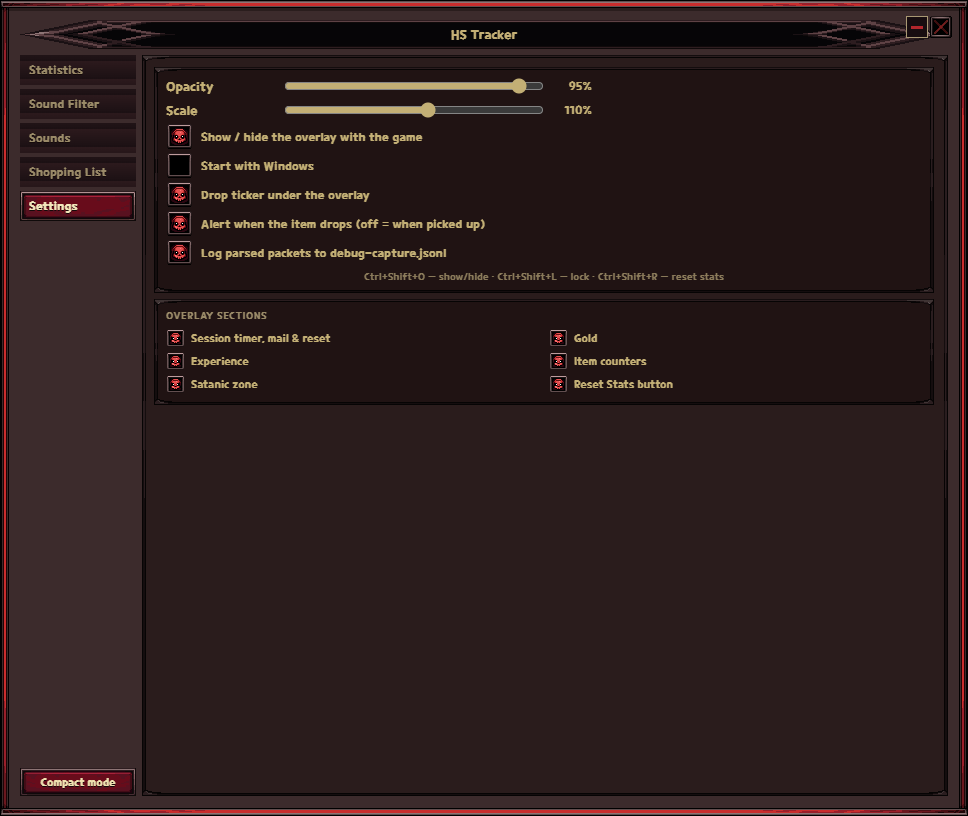
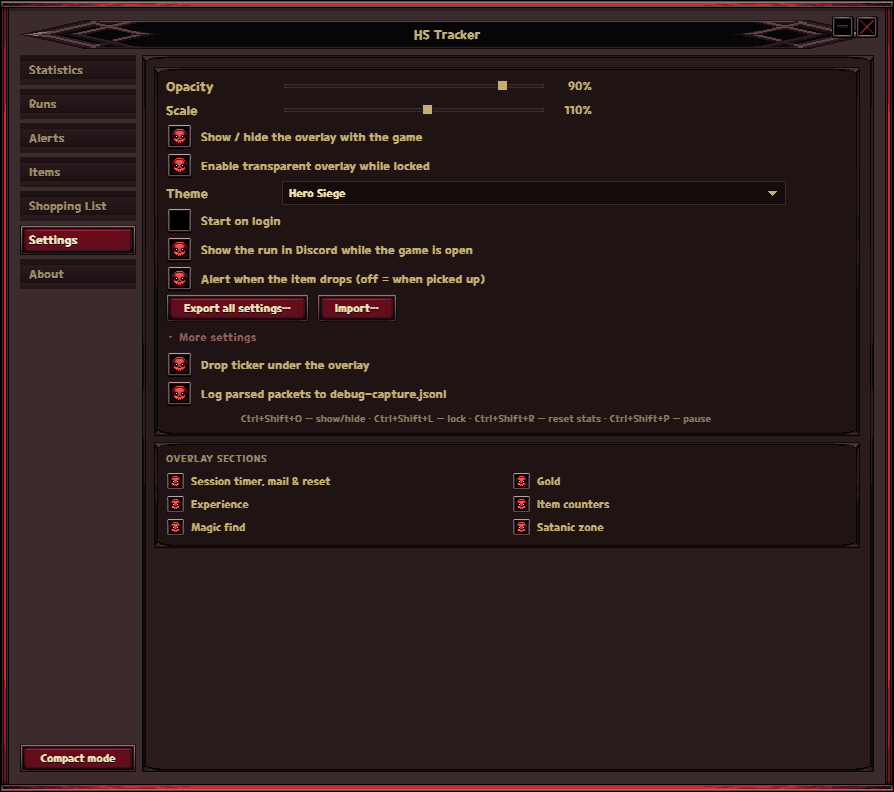
0.9.93
The README says how soon it works when a season starts, because that is the
question the work behind this release answers: an hour or so, and none of it
spent waiting for someone else to datamine the patch.

New screenshots, taken from the running app rather than a headless render, so
the pages show what they hold instead of an empty frame. The overlay is shown
both locked and not — the difference between a panel that lets every click
through to the game and one that can take a click away from it is worth seeing
before you install.

Changed region(s): [[0.0, 0.0, 0.9966, 1.0], [0.5738, 0.3939, 0.6946, 0.4848]]

diff --git a/README.md b/README.md
@@ -11,15 +11,11 @@
   <a href="../../releases"><b>➡ Download for Windows &amp; Linux ⬅</b></a>
 </p>
 
-> [!WARNING]
-> **Still in development.** It is usable and in daily use, but it is not
-> finished: expect bugs, expect settings to move between versions, and expect
-> the occasional drop to be counted oddly after a game patch. Nothing it does
-> can harm your account or your saves — it only reads — but do not treat its
-> numbers as authoritative until a version says it is out of beta.
+> [!NOTE]
+> **How soon does it work when a new season starts?**
 >
-> Found something wrong? [Open an issue](../../issues) with what you were
-> doing and, if you can, the log from `%LOCALAPPDATA%\HS Tracker\`.
+> About an hour, an hour and a half. That is how long it takes to rebuild the
+> item tables and cut a release.
 
 ![The overlay over a running game](screenshots/overlay.png)
 
@@ -44,34 +40,37 @@ injects anything, and sends nothing anywhere — everything stays on your machin
 The one exception is the **About** section's update check, which asks GitHub for
 the newest release and only when you press the button.
 
-## Where it stands
-
-Roughly **80% of the way to 1.0**. What is left is mostly the last stretch of one
-job: making the app's knowledge of the game come from the game.
-
-| | |
-| --- | --- |
-| ✅ **Capture** | Reads the traffic without touching the game. Survives adapters that do segmentation offload, which used to hide every message longer than one frame. |
-| ✅ **Statistics & runs** | Rates, drops by rarity and grade, magic find, bosses, chests, the Satanic Zone, and every finished session kept with a shareable card. |
-| ✅ **Alerts** | Per-rarity sounds, minimum grade, custom filters with their own lists and sounds, and the loot-pillar announcement — on one page. |
-| ✅ **Overlay** | Click-through when locked, its own placement, hotkeys, tray, compact and dashboard faces. |
-| ✅ **Linux** | Builds and runs; on Wayland it runs as the dashboard, and says so instead of pretending the overlay works. |
-| ✅ **Backup** | Every setting, filter, list and sound in one file. |
-| 🚧 **Item data from the game** | Drop rates, names, rarity, grade and drop zones are now read out of the game's own files instead of a datamining site. Drop rates agree with the game's journal exactly; rarity matches the old source on 1552 items of 1577, grades on every named item. |
-| 🚧 **The last field** | One piece of item identity still comes from that outside source. Until it is derived locally, an item added by a game patch is known by rarity and grade but cannot yet be named from a packet. |
-| 🔜 **Polish** | Layout on small windows, Linux packaging, and the long tail of things that only show up in someone else's session. |
-
-Nothing here is a promise of a date. It is where the work actually is.
-
 ## Showcase
+
+The app is a small set of pages behind the overlay: what happened this session,
+what to shout about when it drops, what you are hunting, and the switches.
 
 | Statistics | Alerts |
 | --- | --- |
+| Rates per hour, drops by rarity and grade, magic find, bosses and chests, and the Satanic Zone with its countdown. | One page in two columns: each rarity's sound and volume on the left with the announcement under it, the custom filter and its lists on the right. |
 | ![Statistics](screenshots/statistics.png) | ![Alerts](screenshots/sound-filter.png) |
 
-| Sounds — now part of Alerts | Shopping List |
+| Items | Shopping List |
 | --- | --- |
-| ![Sounds](screenshots/sounds.png) | ![Shopping list](screenshots/shopping-list.png) |
+| Every named item, what it takes to get one, and where it is worth farming. Cards or a table, whichever reads better. | The items you are actually after, so a drop you have been waiting weeks for is not one line among forty. |
+| ![Items](screenshots/items.png) | ![Shopping list](screenshots/shopping-list.png) |
+
+### The overlay, locked and not
+
+Locked, it is click-through: the mouse goes to the game and only the numbers are
+drawn. Unlocked, it grows a frame, a grip to drag it by and the buttons that
+reset or hide it — and that is the one state in which it can take a click the
+game was meant to have.
+
+| Locked | Unlocked |
+| --- | --- |
+| ![Overlay, locked](screenshots/overlay-locked.png) | ![Overlay, unlocked](screenshots/overlay-unlocked.png) |
+
+Settings is the last page, and the least interesting: the four or five things
+people change, with the rest a click away under **More settings**.
+
+![Settings](screenshots/settings.png)
+
 
 ## Install
 

diff --git a/CHANGELOG.md b/CHANGELOG.md
@@ -1,5 +1,64 @@
 # Changelog
 
+## 0.9.93 — 2026-08-18
+
+### Changed
+
+- **The item tables come out of the game now.** Drop rates, names, rarities,
+  grades and the identity triple are read from `Hero_Siege.exe` and
+  `translationsItem.csv` instead of a datamining site, so a season can be
+  tracked the day it arrives rather than the day someone else datamines it.
+  `npm run items` does the whole job. Measured against the old source: every
+  rate it can read agrees, rarity on 1552 items of 1577, grades on all 955
+  named items, and the identity triple on 1861 of 1862 — the one disagreement
+  is the old source's mistake. It also brings 12 items that source never had.
+- The **Items** page has a card view beside the table and remembers which you
+  used. A card gives the name, the kind and grade, both drop chances and where
+  the item is tied, in words rather than as a fifth column.
+- Machine paths moved out of the build scripts into `.env`; `.env.example`
+  documents them. Nobody's drive letters travel with the repository now.
+
+### Added
+
+- **A chime when the Satanic Zone rotates**, with a sweep across the zone chip
+  in the overlay. On by default, with its own row on the Alerts page. It fires
+  only on a real rotation — not at startup, not after a reset, and not when the
+  app first learns which zone is satanic. Coming back to the game an hour later
+  was the case that needed the care.
+- `npm run all` builds every artifact on this machine: the installer, the
+  `.deb`, the `.rpm` and the AppImage.
+
+### Fixed
+
+- **A buffer of open braces could stall the capture.** Finding the end of a
+  JSON message was quadratic — 64 KB of `{` took 2.2 seconds and a megabyte
+  would have taken minutes. It now costs a fixed multiple of its own length and
+  reads real traffic byte for byte the same.
+- A ground drop and its pickup were counted twice when they shared an inventory
+  fingerprint. A reset between a deposit and the balance that confirmed it made
+  the new session claim gold it had not earned. Time in a zone kept accruing
+  while the session was paused.
+- A settings file that would not parse was answered with defaults, and the next
+  save wrote those defaults over the only copy. It is set aside as
+  `settings.json.bad` now, and what the app writes survives a power cut: the
+  staged file is flushed before the rename that names it.
+- A single left click on the tray icon toggled the window twice, because the
+  click is reported going down and coming up. It appeared and vanished again;
+  only a double click looked like it worked.
+- The SS chip counted anything carrying an SS grade, keys and socketables
+  included, and read 2 before a piece of gear had dropped. The grade columns
+  count gear.
+- Essence Vaults no longer sound a rarity alert: seven of them share one
+  display name, so it fired constantly and said nothing about what was found.
+- With the game not running, the "waiting for Hero Siege" banner pushed every
+  page past the bottom of its box, where it was clipped with no way to scroll
+  to it. The Alerts page could draw its own controls on top of one another in a
+  short window. Both were the same fault, and every flex container was swept
+  for it.
+- The heavy statistics payload was pushed to the front end every second whether
+  anything had changed or not, and the journal formatted its timestamps one at
+  a time — 10 ms of every redraw.
+
 ## 0.9.92 — 2026-08-18
 
 ### Changed
@@ -24,6 +83,13 @@
 
 ### Added
 
+- The satanic zone rotating says so: a chime, and the zone chip sweeps and
+  pulses for a few seconds. The rotation is why anyone watches that chip, and
+  watching it means not watching the fight. One row on **Alerts** — *Zone
+  change* — carries both, on out of the box, with its own volume and its own
+  file if the satanic chime it borrows is not to taste. It fires on a rotation
+  and nothing else: starting the tracker between rotations, or resetting the
+  session, is this app finding out where the zone is, not the game moving it.
 - Export every setting to one file and read it back — rarities, grades, the
   announcement, every filter and list, and the sound files themselves, which
   live outside settings.json and would otherwise arrive as silence.
